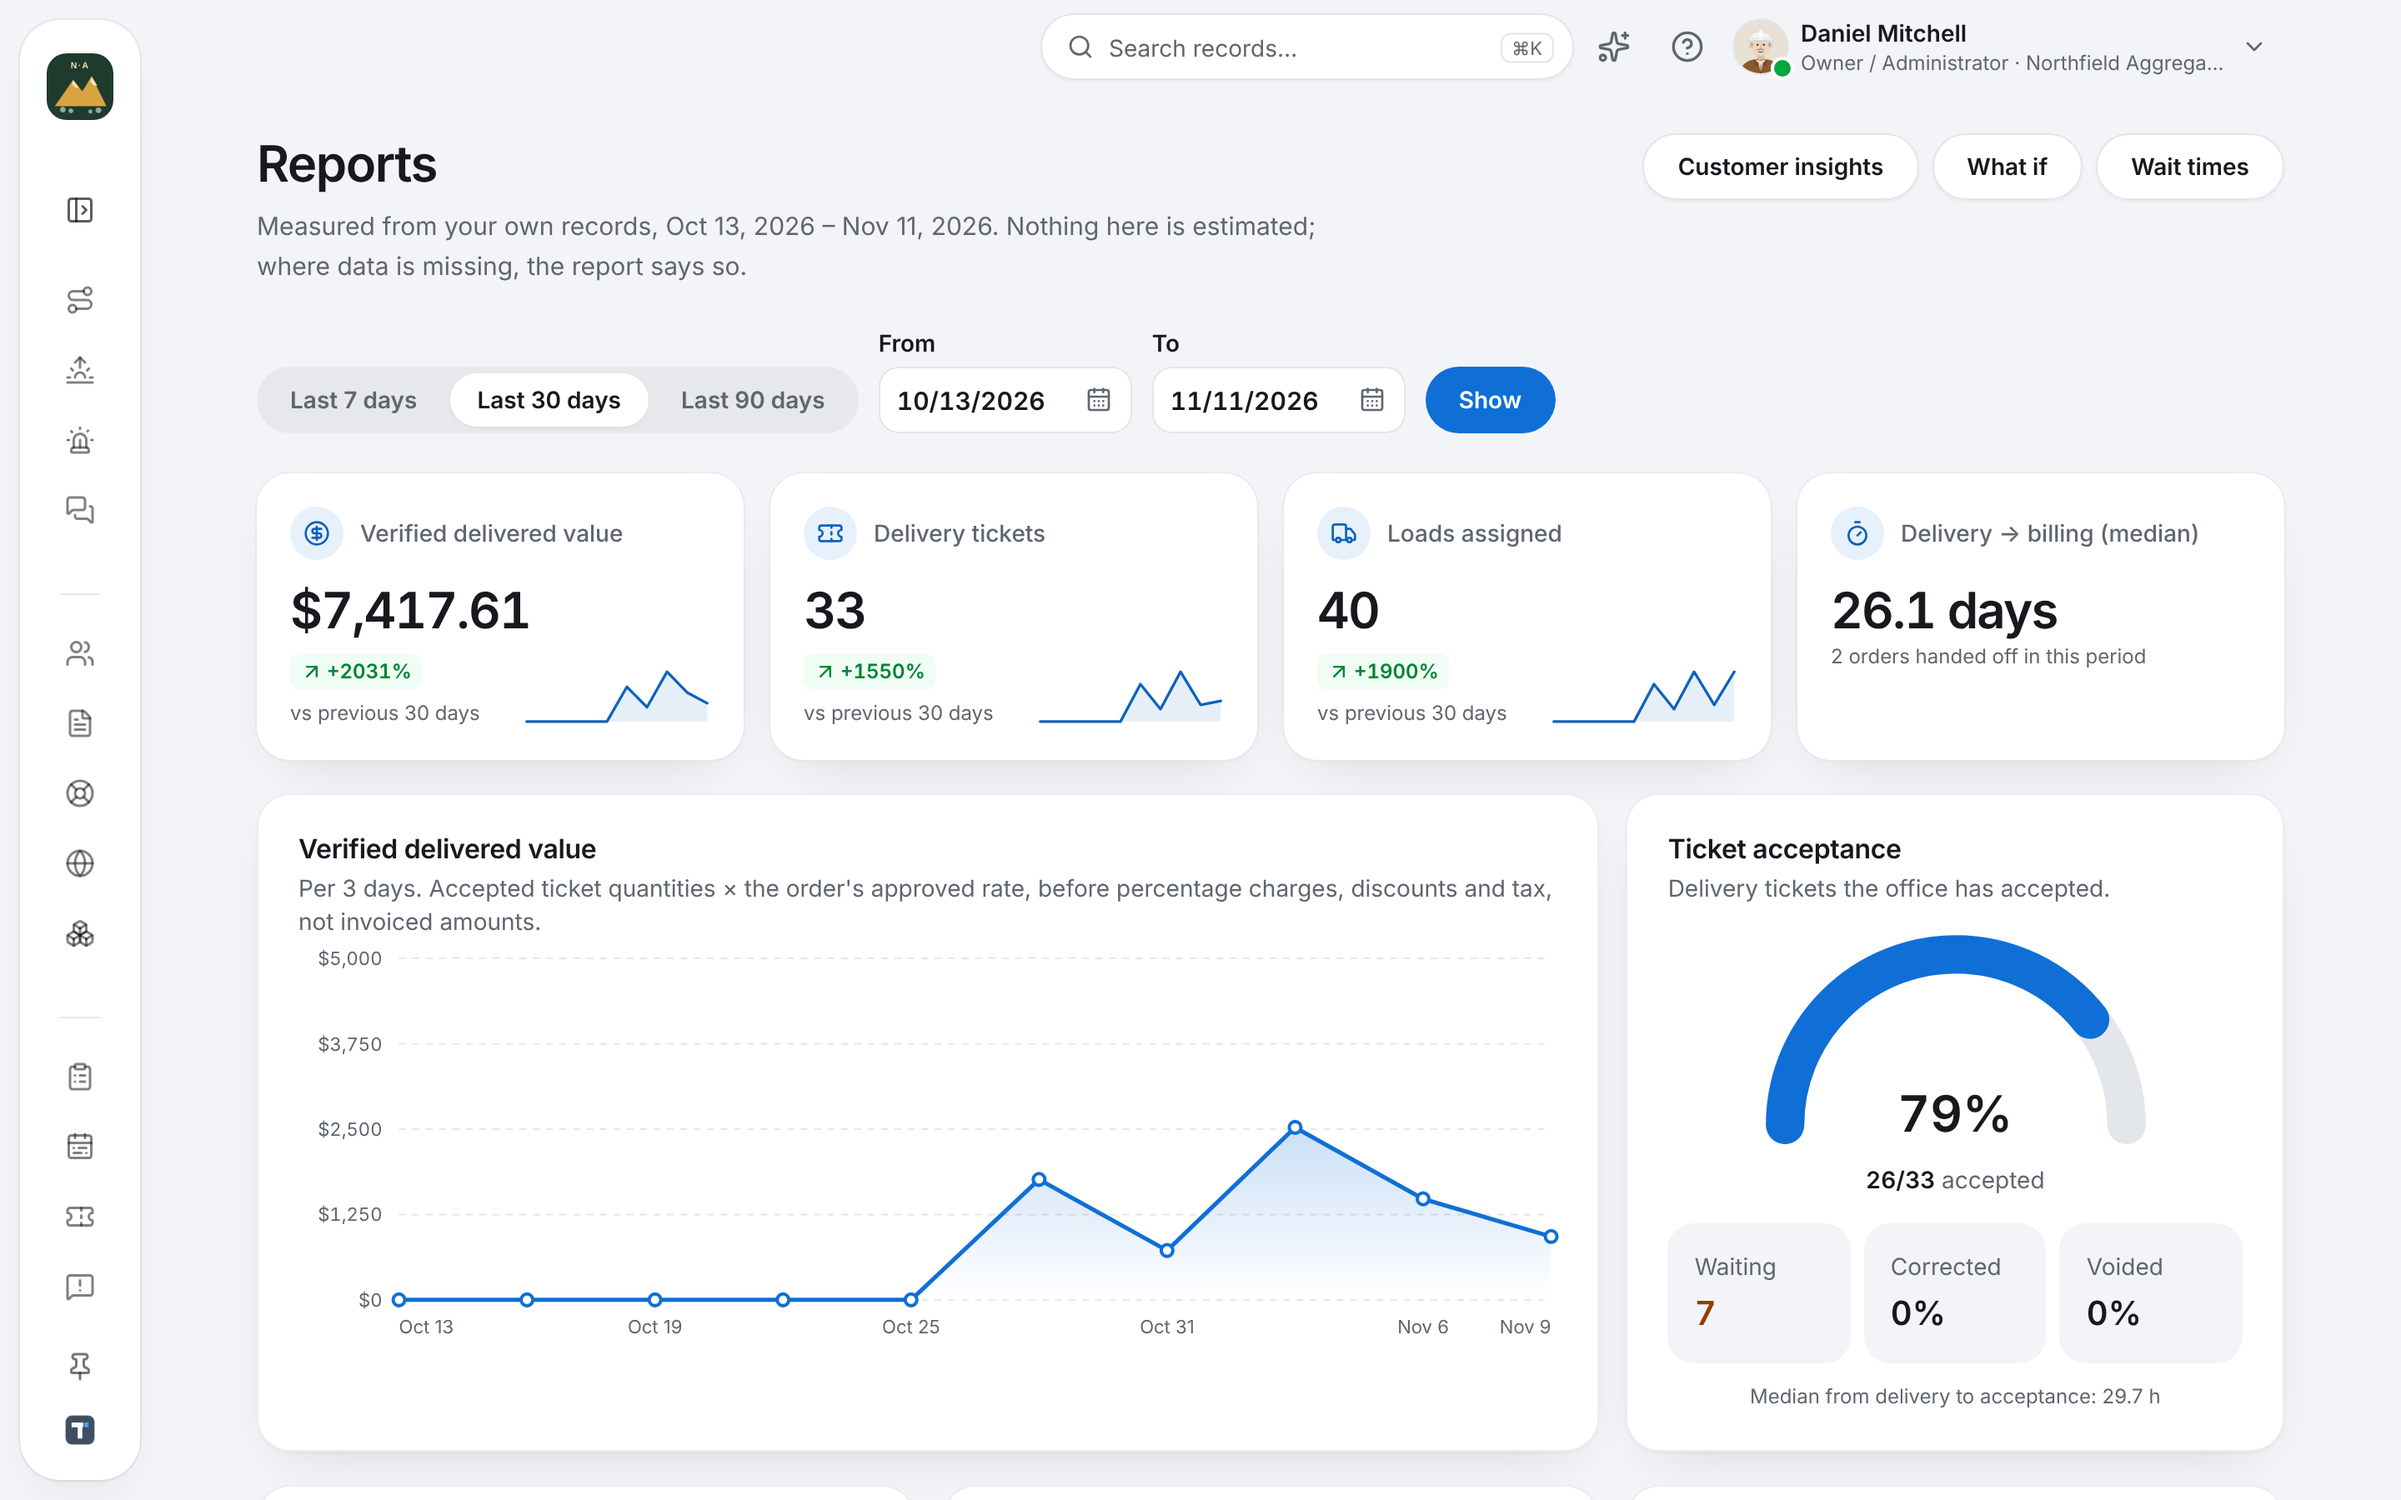
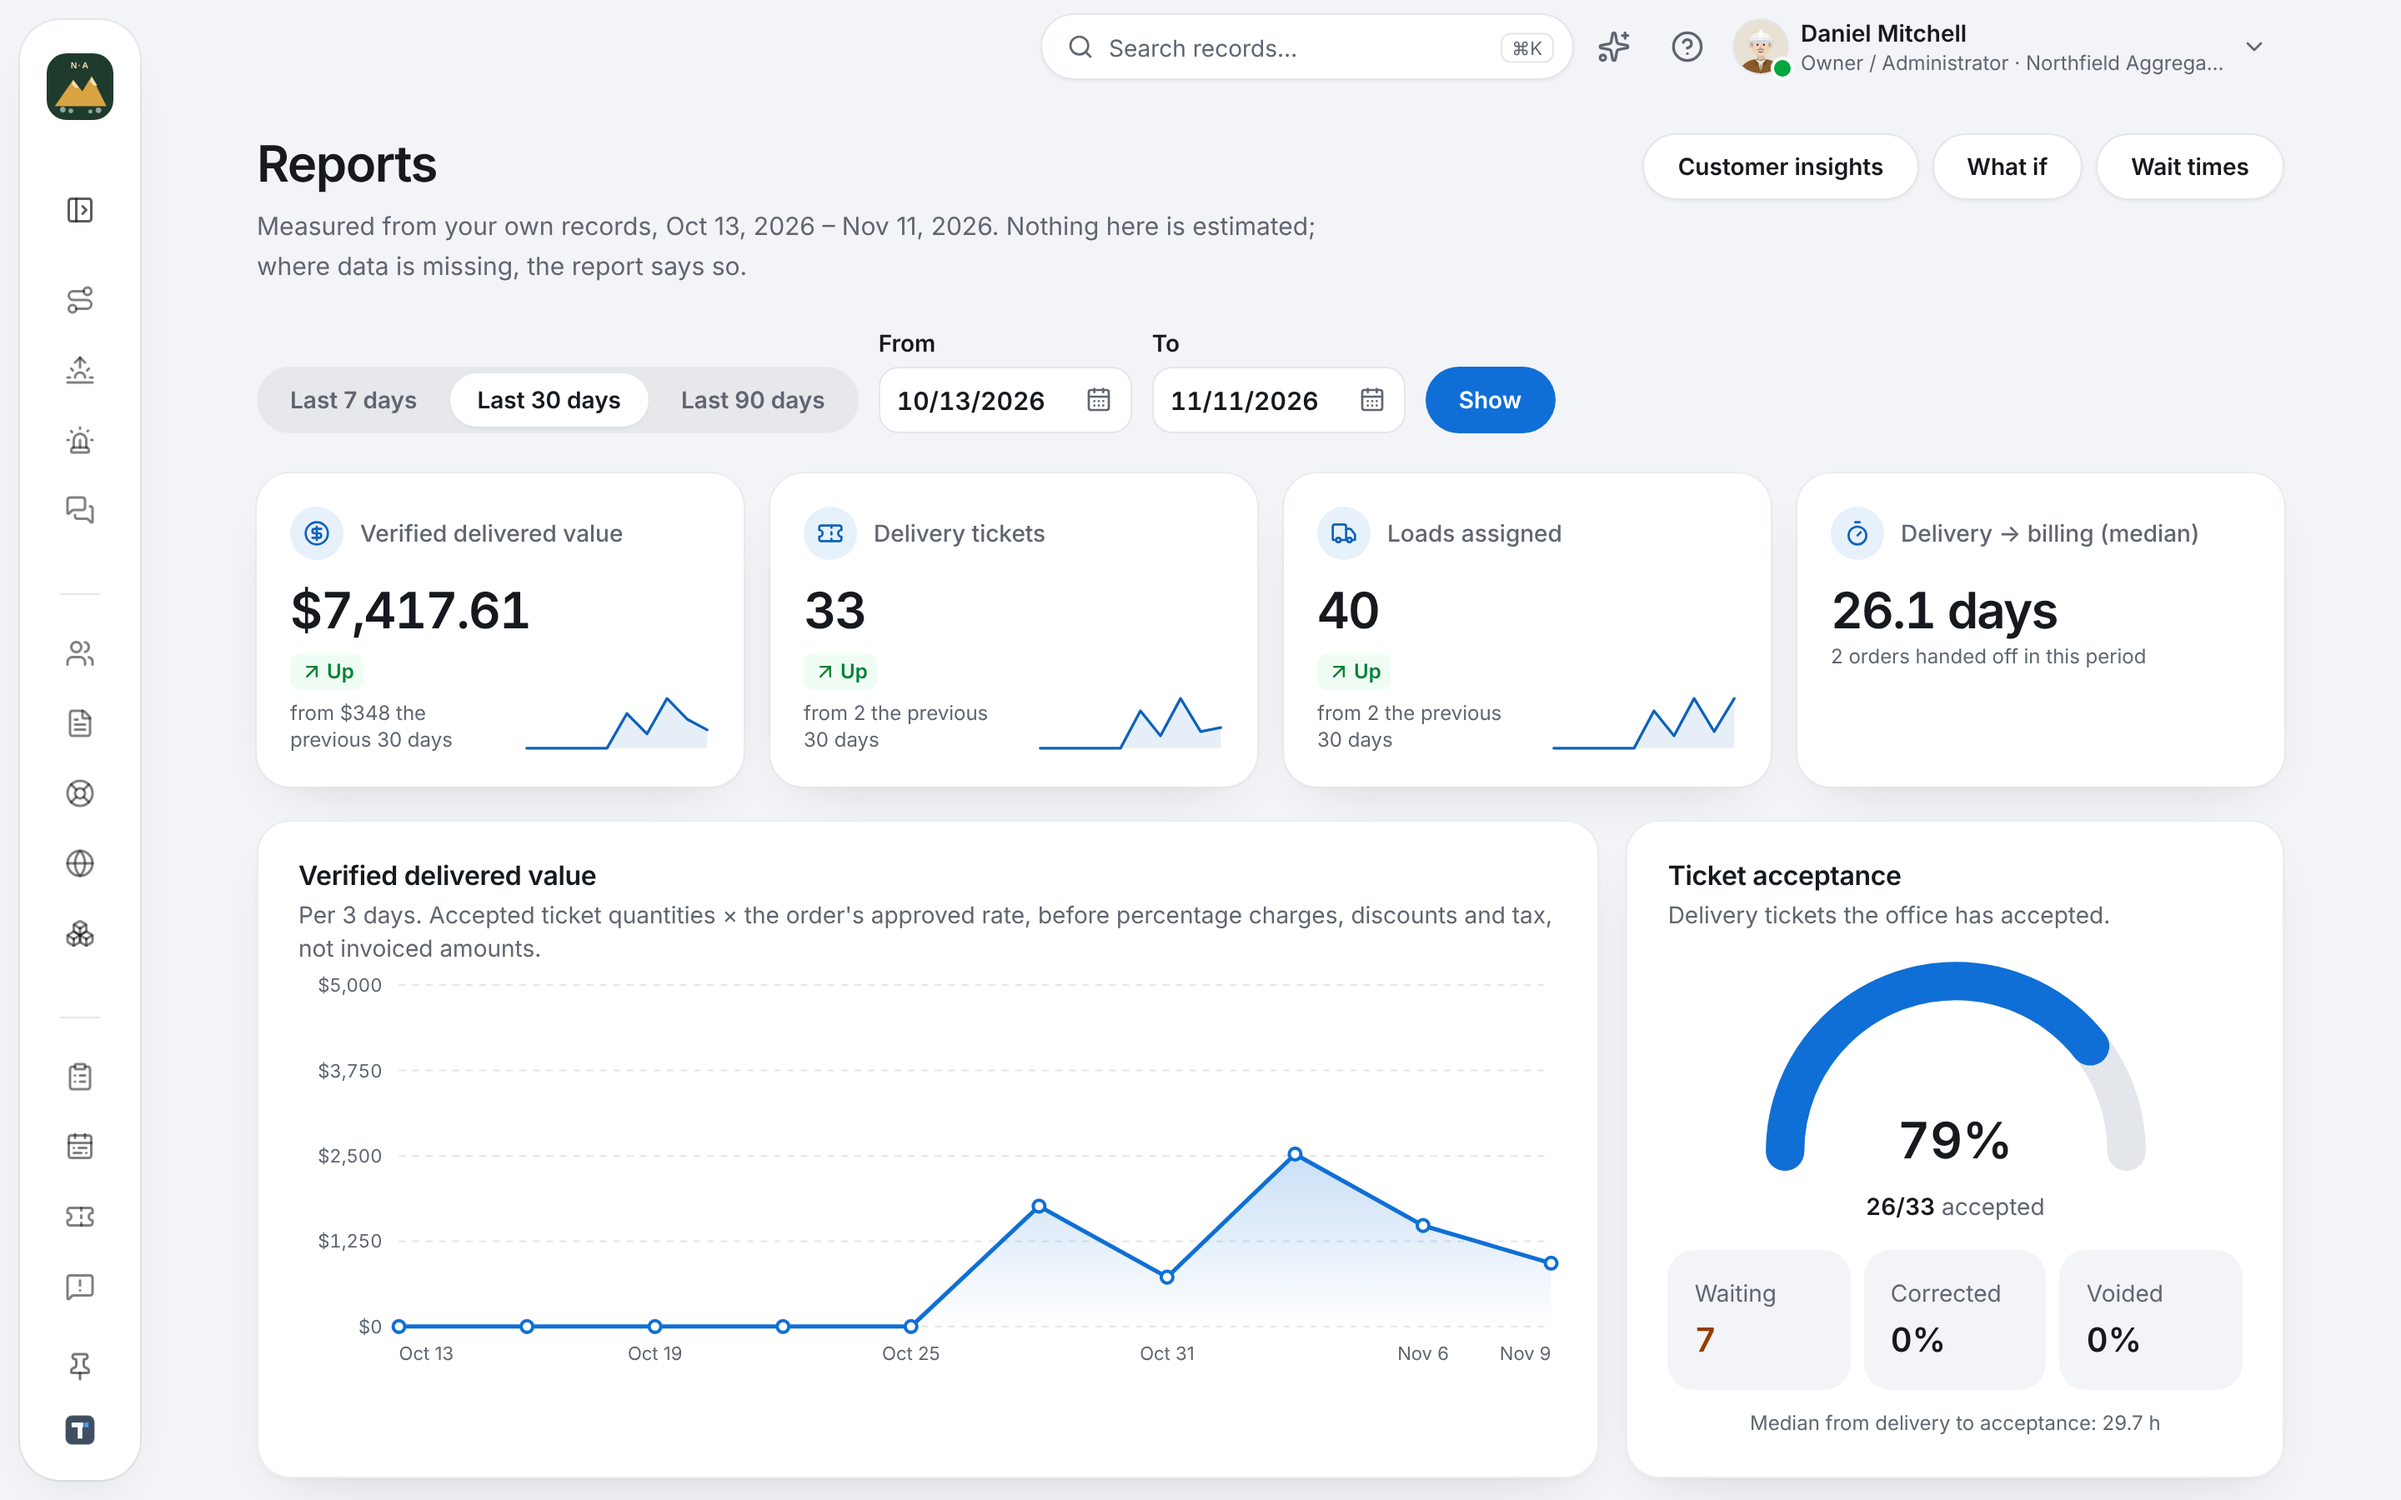
Reports say "Up from X in the previous period" when the earlier period was tiny; captures clean form fields too
+2031% after a quiet month told an owner nothing and looked made up; above +300% the change now names what the
previous period had (money in compact dollars). The screenshot script removes the demo tags from text boxes as
it already did from page text. Reports and Site notes images re-captured.

Claude-Session: https://claude.ai/code/session_011hr46rCMiWaqaeSrWfu4TW

diff --git a/src/app/(app)/reports/page.tsx b/src/app/(app)/reports/page.tsx
@@ -47,7 +47,7 @@ const compactMoney = (cents: number) => {
 
 /** Change against the previous period of the same length, as a chip (owner's references 2026-10-27); honest about
  * having nothing to compare with. */
-function Delta({ now, before, period }: { now: number; before: number | null; period: string }) {
+function Delta({ now, before, period, format = (n: number) => n.toLocaleString("en-US") }: { now: number; before: number | null; period: string; format?: (n: number) => string }) {
   if (before === null) return <p className="mt-1.5 text-xs text-muted">No earlier period to compare</p>;
   if (before === 0) {
     return (
@@ -58,6 +58,15 @@ function Delta({ now, before, period }: { now: number; before: number | null; pe
     );
   }
   const change = Math.round(((now - before) / before) * 100);
+  // A very small earlier period makes the percentage meaningless (+2000% after a quiet month): say what it was instead.
+  if (change > 300) {
+    return (
+      <p className="mt-1.5 flex flex-wrap items-center gap-1.5 text-xs text-muted">
+        <span className="inline-flex h-[22px] items-center gap-0.5 rounded-md bg-green-50 px-1.5 font-semibold text-green-700"><ArrowUpRight className="size-3.5" aria-hidden /><span className="pill-text">Up</span></span>
+        from {format(before)} in the previous {period}
+      </p>
+    );
+  }
   return (
     <p className="mt-1.5 flex flex-wrap items-center gap-1.5 text-xs text-muted">
       <span className={cn("inline-flex h-[22px] items-center gap-0.5 rounded-md px-1.5 font-semibold tabular", change > 0 ? "bg-green-50 text-green-700" : change < 0 ? "bg-amber-50 text-amber-800" : "bg-ink/[0.05] text-muted")}>
@@ -196,7 +205,7 @@ export default async function ReportsPage({ searchParams }: { searchParams: Prom
           <section aria-label="Key figures" className="grid grid-cols-1 gap-4 sm:grid-cols-2 xl:grid-cols-4">
             {r.value ? (
               <Kpi icon={<CircleDollarSign className="size-4" aria-hidden />} label="Verified delivered value" value={formatCents(r.value.verified_value_cents)} spark={trend.map((t) => t.value)} sparkLabel="Verified value trend over the period">
-                <Delta now={r.value.verified_value_cents} before={prev?.value?.verified_value_cents ?? null} period={periodLabel} />
+                <Delta now={r.value.verified_value_cents} before={prev?.value?.verified_value_cents ?? null} period={periodLabel} format={compactMoney} />
               </Kpi>
             ) : null}
             <Kpi icon={<Ticket className="size-4" aria-hidden />} label={say("Delivery tickets")} value={r.deliveries ? String(r.deliveries.tickets) : "–"} spark={trend.map((t) => t.tickets)} sparkLabel="Delivery tickets over the period">
